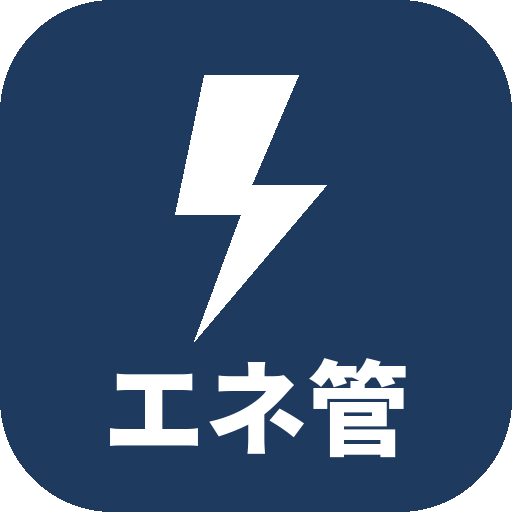
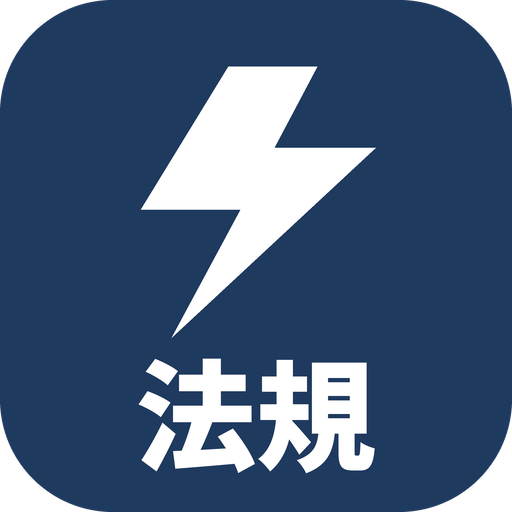
Add files via upload

Changed region(s): [[0.1875, 0.6875, 0.8125, 0.9375], [0.375, 0.125, 0.75, 0.4062], [0.2812, 0.25, 0.5625, 0.6562]]

diff --git a/sw.js b/sw.js
@@ -1,5 +1,9 @@
-/* エネ管 暗記デッキ — オフライン用 Service Worker（キャッシュ優先） */
-const CACHE = "enekan-anki-v1";
+/* 電験三種 法規 暗記デッキ — Service Worker
+   ・自分(denken-houki)のキャッシュだけ管理し、エネ管など他アプリのキャッシュは絶対に消さない
+   ・同一オリジン以外には一切介入しない
+   ・HTMLはネット優先（最新を取得）、静的ファイルはキャッシュ優先 */
+const APP   = "denken-houki";
+const CACHE = APP + "-anki-v3";
 const ASSETS = [
   "./",
   "./index.html",
@@ -15,21 +19,44 @@ self.addEventListener("install", (e) => {
 self.addEventListener("activate", (e) => {
   e.waitUntil(
     caches.keys().then((keys) =>
-      Promise.all(keys.filter((k) => k !== CACHE).map((k) => caches.delete(k)))
+      Promise.all(
+        // ★自分のアプリ(denken-houki-*)の古い版だけ削除。他アプリのキャッシュは残す
+        keys.filter((k) => k.startsWith(APP + "-") && k !== CACHE).map((k) => caches.delete(k))
+      )
     ).then(() => self.clients.claim())
   );
 });
 
 self.addEventListener("fetch", (e) => {
-  if (e.request.method !== "GET") return;
-  e.respondWith(
-    caches.match(e.request).then((hit) =>
-      hit ||
-      fetch(e.request).then((res) => {
+  const req = e.request;
+  if (req.method !== "GET") return;
+  // ★同一オリジン以外は素通り（他サイト・他アプリに干渉しない）
+  if (new URL(req.url).origin !== self.location.origin) return;
+
+  const isHTML =
+    req.mode === "navigate" ||
+    (req.headers.get("accept") || "").includes("text/html");
+
+  if (isHTML) {
+    e.respondWith(
+      fetch(req).then((res) => {
         const copy = res.clone();
-        caches.open(CACHE).then((c) => c.put(e.request, copy)).catch(() => {});
+        caches.open(CACHE).then((c) => c.put("./index.html", copy)).catch(() => {});
         return res;
-      }).catch(() => caches.match("./index.html"))
-    )
-  );
+      }).catch(() =>
+        caches.match("./index.html").then((h) => h || caches.match("./"))
+      )
+    );
+  } else {
+    e.respondWith(
+      caches.match(req).then((hit) =>
+        hit ||
+        fetch(req).then((res) => {
+          const copy = res.clone();
+          caches.open(CACHE).then((c) => c.put(req, copy)).catch(() => {});
+          return res;
+        }).catch(() => caches.match("./index.html"))
+      )
+    );
+  }
 });